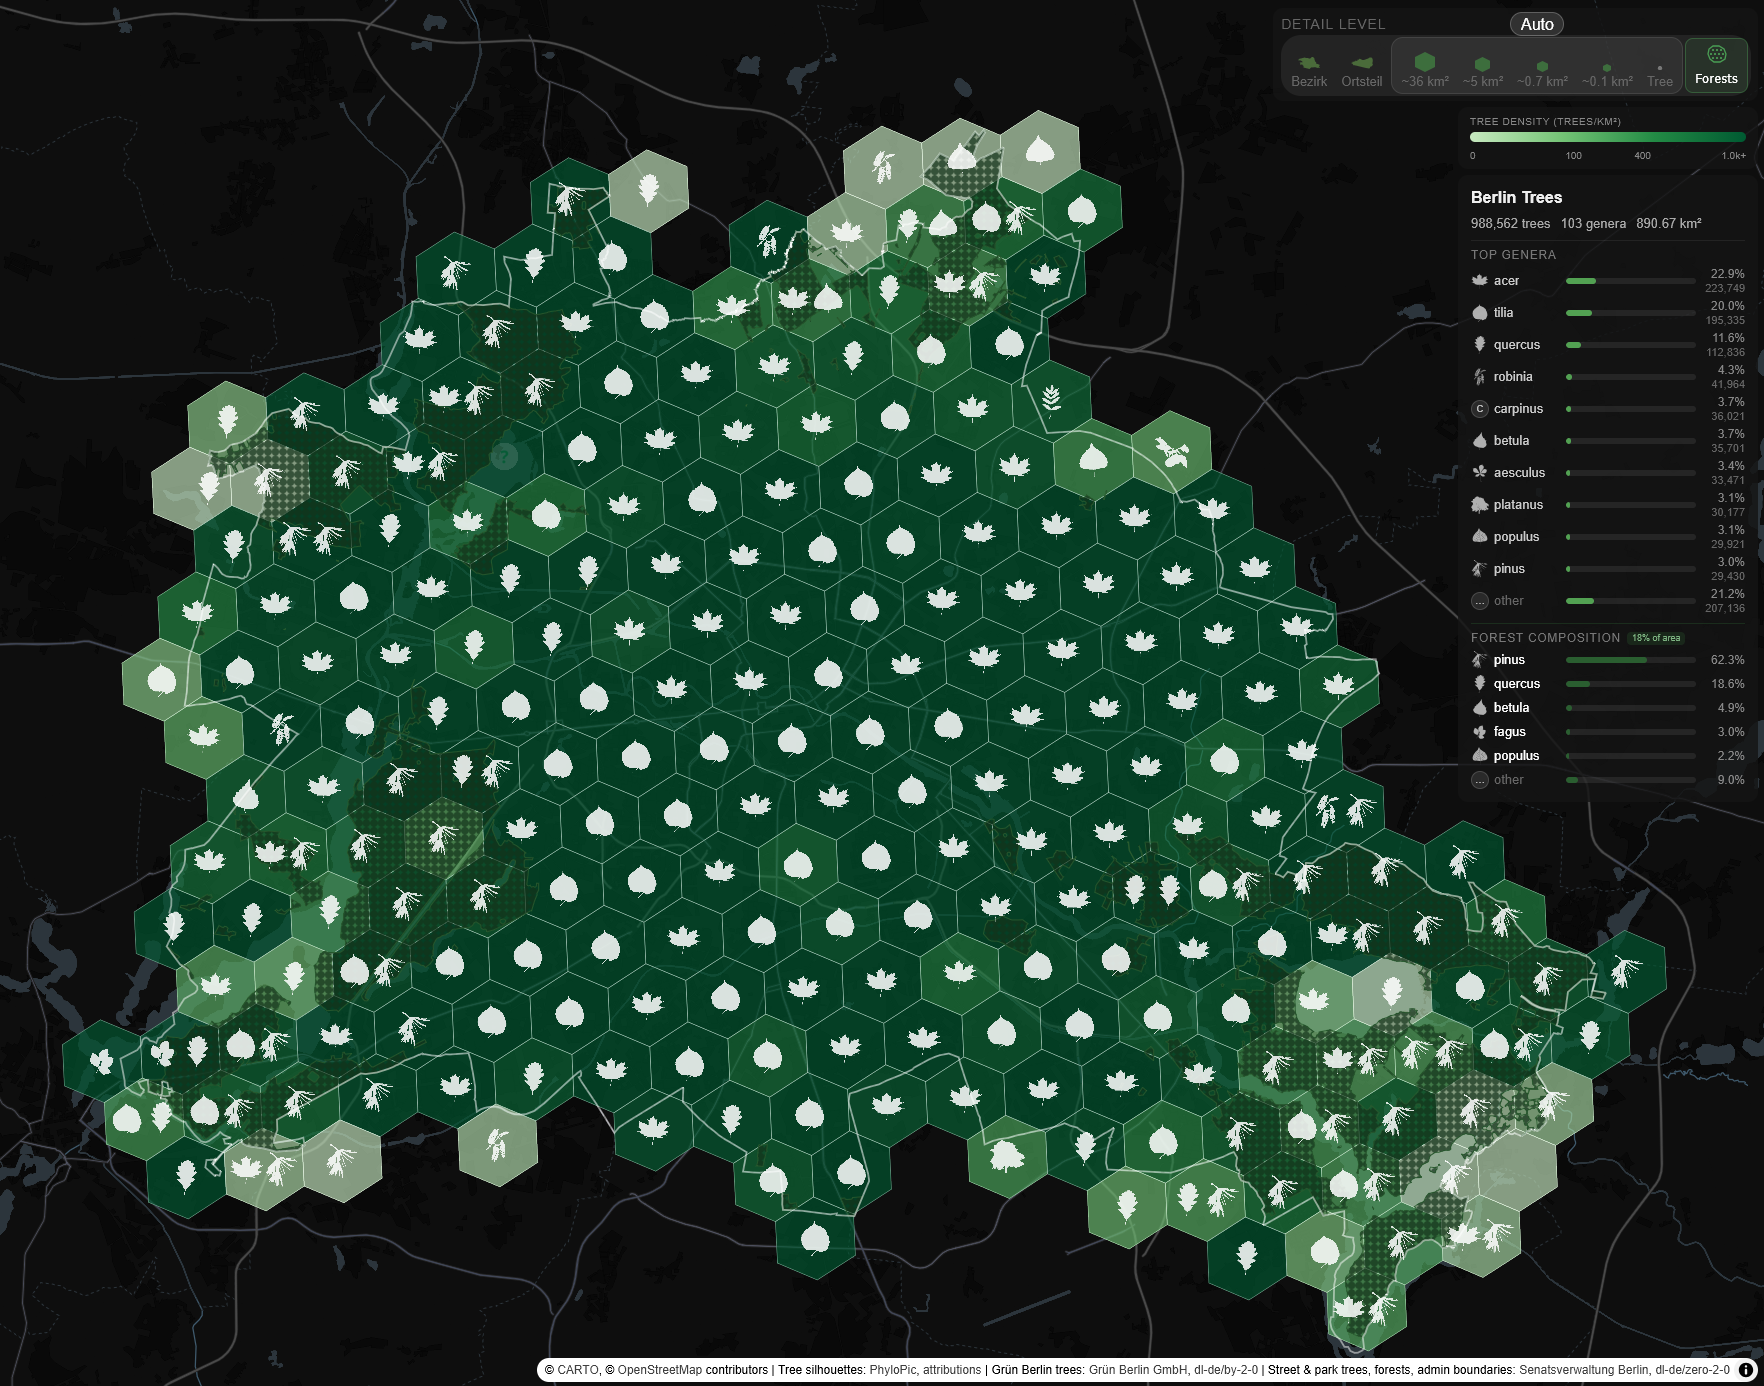
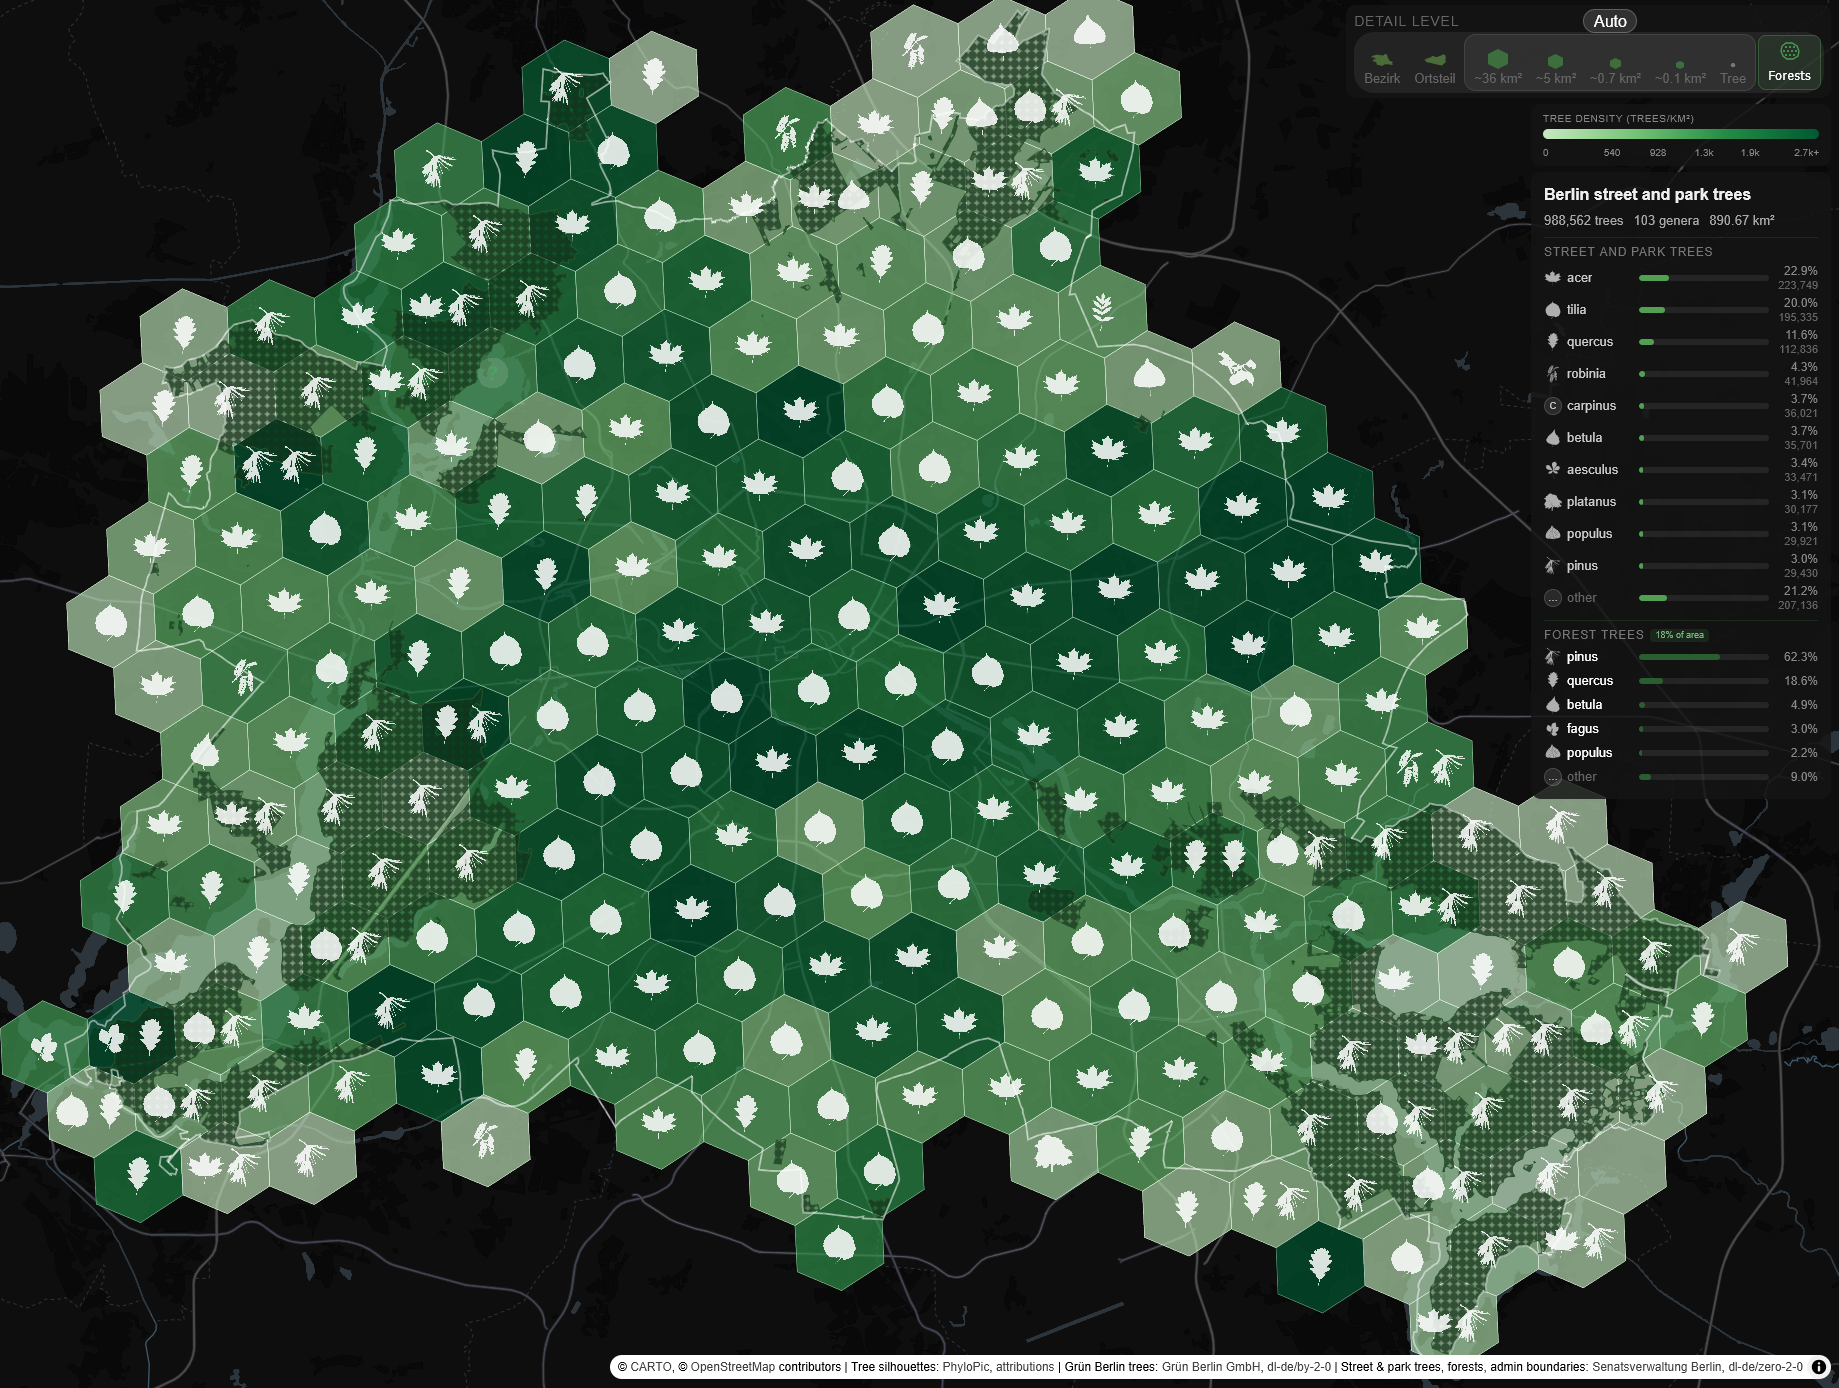
webmap: fix wording; readme: display a smaller screenshot

diff --git a/web/js/info.js b/web/js/info.js
@@ -227,7 +227,7 @@ function renderTreeChart(props, phylopicIndex, maxRows) {
         <div class="bar-pct">${Number(otherShare).toFixed(1)}%<span class="bar-count">${otherCount.toLocaleString()}</span></div>
        </div>` : '';
 
-  return `<div class="card-section"><div class="card-section-title">Tree genera</div>${rows.join('')}${otherRow}</div>`;
+  return `<div class="card-section"><div class="card-section-title">Street and park trees</div>${rows.join('')}${otherRow}</div>`;
 }
 
 function renderForestChart(props, phylopicIndex) {
@@ -248,7 +248,7 @@ function renderForestChart(props, phylopicIndex) {
         <div class="bar-pct">${Number(otherShare).toFixed(1)}%</div>
        </div>` : '';
   const fcpBadge = `<span class="fcp-badge">${Number(fcp).toFixed(0)}% of area</span>`;
-  return `<div class="card-section card-forest"><div class="card-section-title">Forest composition ${fcpBadge}</div>${rows.join('')}${otherRow}</div>`;
+  return `<div class="card-section card-forest"><div class="card-section-title">Forest trees ${fcpBadge}</div>${rows.join('')}${otherRow}</div>`;
 }
 
 function renderDatasetCard(summary, phylopicIndex) {
@@ -265,7 +265,7 @@ function renderDatasetCard(summary, phylopicIndex) {
         <div class="bar-pct">${Number(otherShare).toFixed(1)}%<span class="bar-count">${otherCount.toLocaleString()}</span></div>
        </div>` : '';
   const treeSection = genera
-    ? `<div class="card-section"><div class="card-section-title">Top genera</div>${genera}${otherRow}</div>` : '';
+    ? `<div class="card-section"><div class="card-section-title">Street and park trees</div>${genera}${otherRow}</div>` : '';
 
   let forestSection = '';
   if (_forestEnabled && summary.forest_cover_pct > 0 && summary.forest_genera?.length) {
@@ -280,11 +280,11 @@ function renderDatasetCard(summary, phylopicIndex) {
           <div class="bar-pct">${Number(fOther).toFixed(1)}%</div>
          </div>` : '';
     const fcpBadge = `<span class="fcp-badge">${Number(summary.forest_cover_pct).toFixed(0)}% of area</span>`;
-    forestSection = `<div class="card-section card-forest"><div class="card-section-title">Forest composition ${fcpBadge}</div>${fRows}${fOtherRow}</div>`;
+    forestSection = `<div class="card-section card-forest"><div class="card-section-title">Forest trees ${fcpBadge}</div>${fRows}${fOtherRow}</div>`;
   }
 
   return `
-    <div class="card-title">Berlin Trees</div>
+    <div class="card-title">Berlin street and park trees</div>
     <div class="card-stats">
       <span>${(summary.tree_count || 0).toLocaleString()} ${summary.tree_count === 1 ? 'tree' : 'trees'}</span>
       <span>${summary.genus_count || 0} genera</span>

diff --git a/README.md b/README.md
@@ -4,7 +4,9 @@
 
 Another take on visualizing Berlin's trees. Tree data is aggregated onto an H3 hex grid and packed into a single PMTiles archive served to the browser.
 
-<img src="https://github.com/Ossssip/Berlin-trees-hex/blob/main/web/map.png?raw=true" width="900">
+<a href="https://github.com/Ossssip/Berlin-trees-hex/blob/main/web/map.png?raw=true">
+  <img src="https://github.com/Ossssip/Berlin-trees-hex/blob/main/web/map_thumb.png?raw=true" width="600" alt="Berlin trees map preview">
+</a>
 
 ---
 ## Data